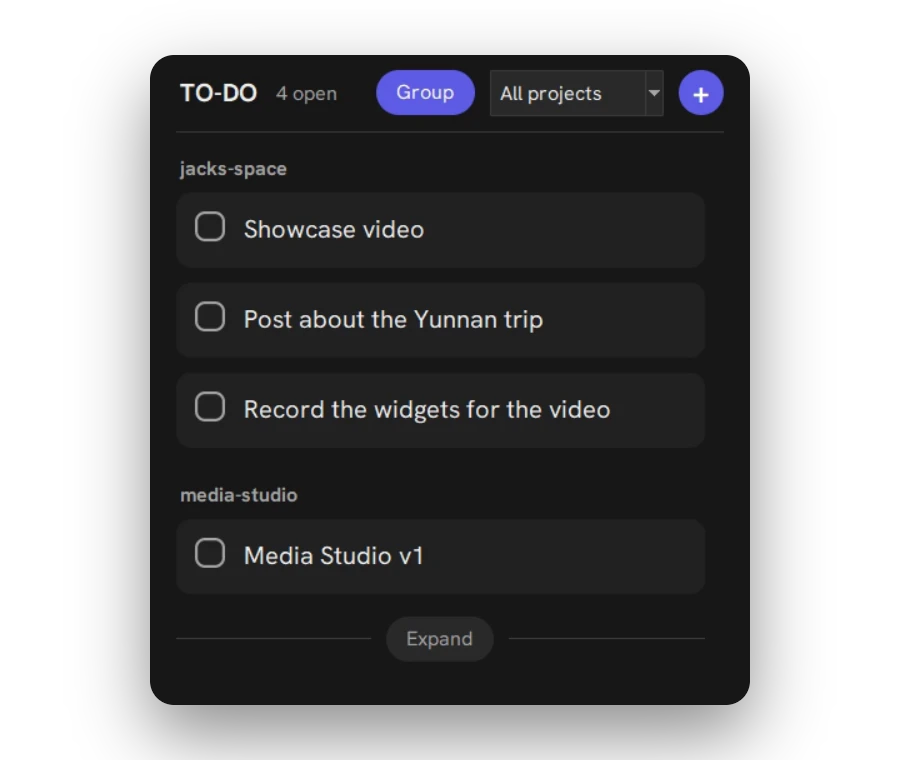
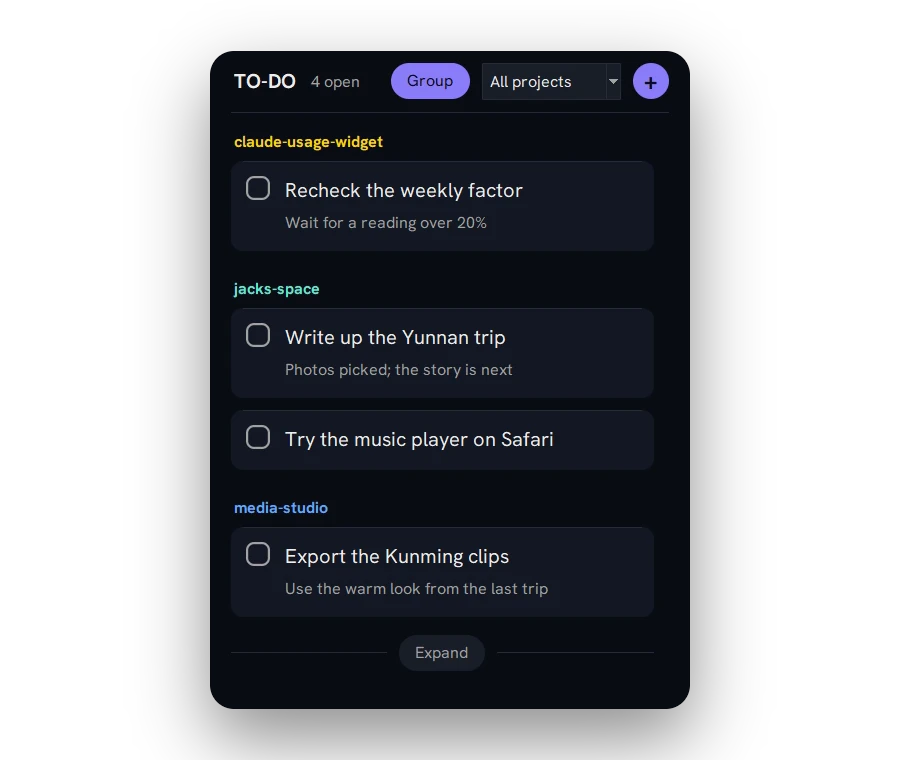
Projects - to-do widget on GitHub, card in its new look

Changed region(s): [[0.1244, 0.0605, 0.8711, 0.9987]]

diff --git a/src/lib/projects.ts b/src/lib/projects.ts
@@ -16,5 +16,5 @@ export const PROJECTS = [
   { name: 'Claude usage widget', line: 'A desktop widget for my Claude plan: the 5-hour window and the weekly limit.', tags: ['Python', 'Claude Code mod'], kind: 'preview', picture: usage, code: `${GITHUB}/claude-usage-widget`, wide: true, at: 18.33, tone: '--about-top-from' },
   { name: "Jack's Jarvis", line: 'A small, safe Windows agent: ask, it picks a tool, you see what happened.', tags: ['TypeScript', 'Voice'], kind: 'misc', picture: jarvis, at: 22.37, tone: '--lab-from' },
   { name: 'Media Studio', line: 'Pick the keepers from a trip, give them one look, export for the site.', tags: ['Python', 'FFmpeg'], kind: 'text', picture: studio, at: 26.4, tone: '--travel-top-from' },
-  { name: 'To-do widget', line: 'My to-do list on the desktop. Claude adds to it and ticks it off.', tags: ['Python'], kind: 'effect', picture: todo, at: 30.43, tone: '--writing-top-from' },
+  { name: 'To-do widget', line: 'My to-do list on the desktop. Claude adds to it and ticks it off.', tags: ['Python'], kind: 'effect', picture: todo, code: `${GITHUB}/todo-widget`, at: 30.43, tone: '--writing-top-from' },
 ] as const;

diff --git a/src/content/changelog.md b/src/content/changelog.md
@@ -138,3 +138,4 @@
 - 2026-10-27 fix: Tidied the date line on Exact Time
 - 2026-10-27 new: Added a music player that keeps playing as you move between pages
 - 2026-10-27 design: Gave the usage widget's project card its new look
+- 2026-10-27 improved: Put the to-do widget's code on GitHub, with its new look
